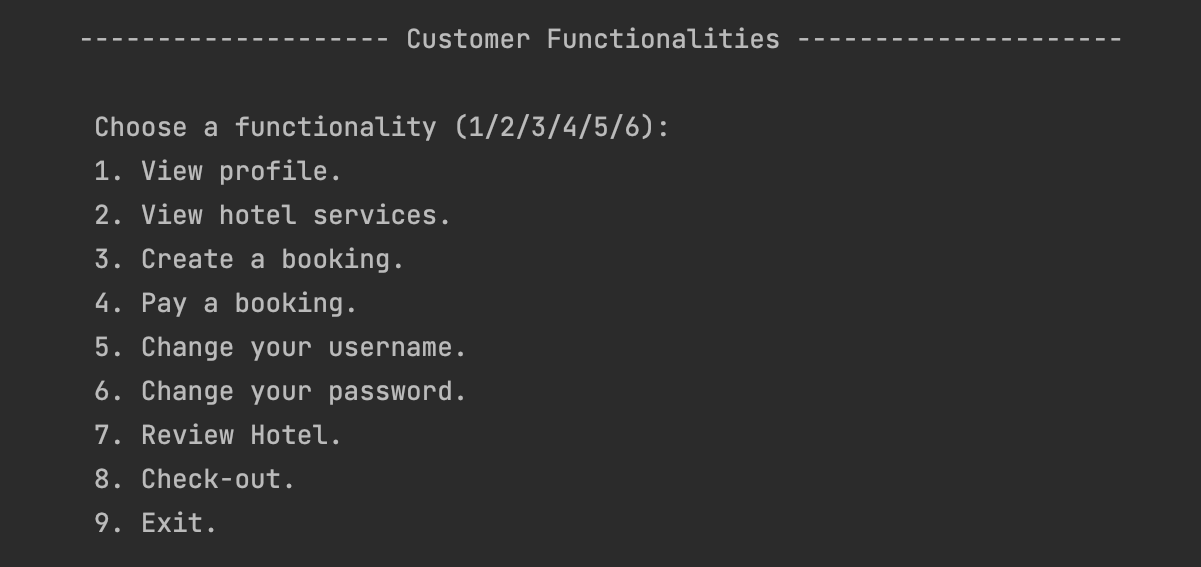
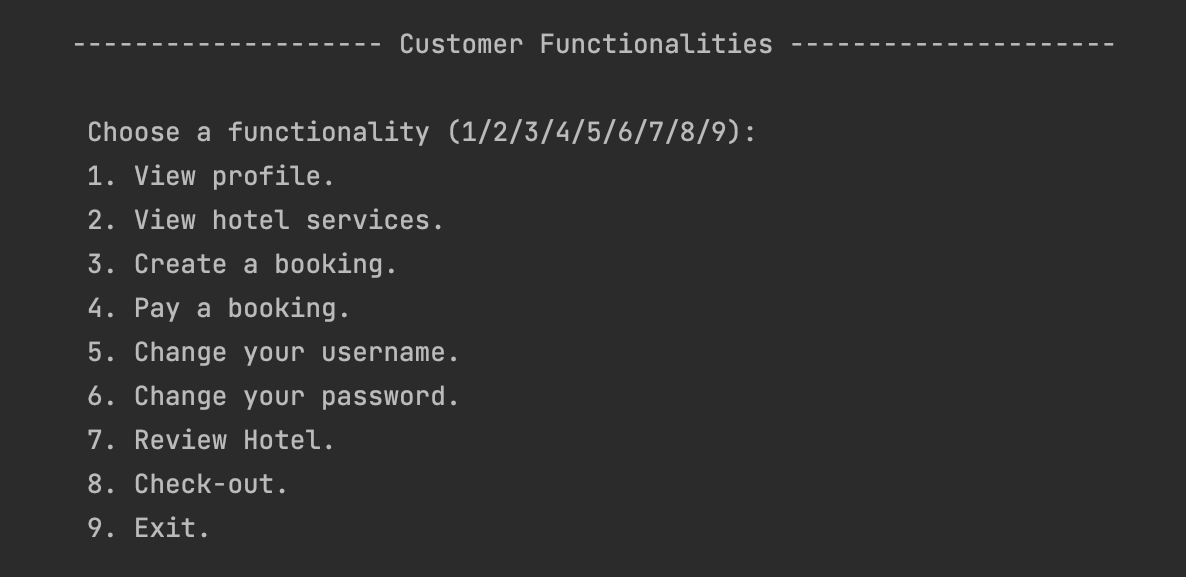
readme  modificari

diff --git a/src/service/CustomerService.java b/src/service/CustomerService.java
@@ -49,7 +49,7 @@ public class CustomerService implements ServiceInterface {
         int option = 0;
         while (option != 9){
             System.out.println("\n\t-------------------- Customer Functionalities ---------------------\n");
-            System.out.println("\t Choose a functionality (1/2/3/4/5/6):");
+            System.out.println("\t Choose a functionality (1/2/3/4/5/6/7/8/9):");
             System.out.println("\t 1. View profile.");
             System.out.println("\t 2. View hotel services.");
             System.out.println("\t 3. Create a booking.");
